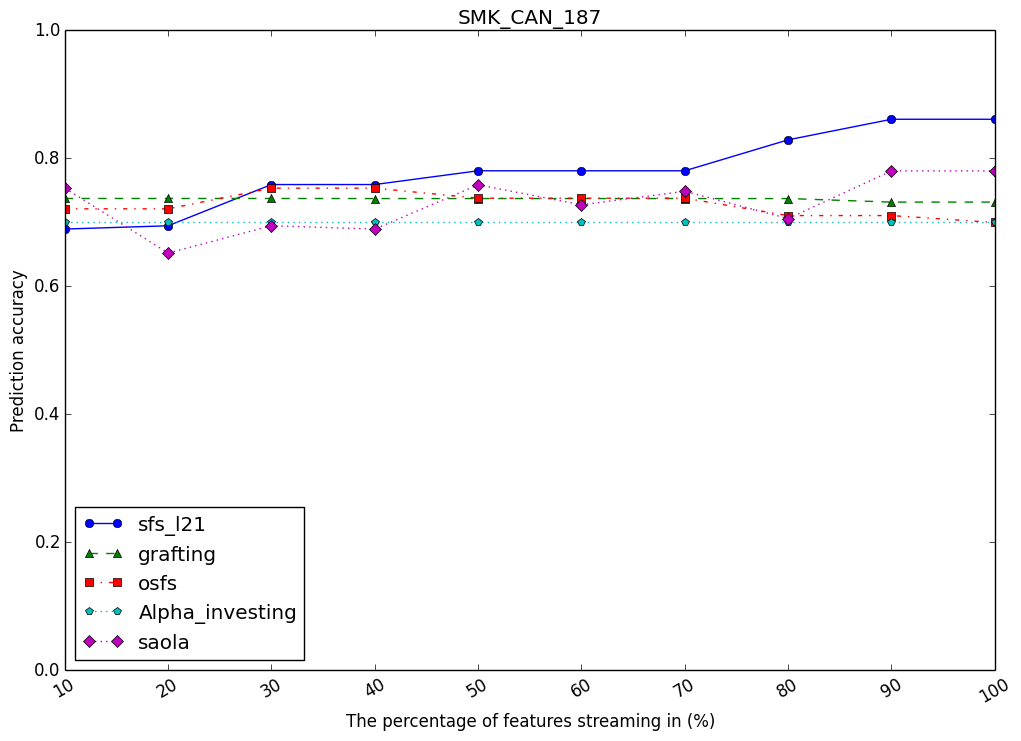
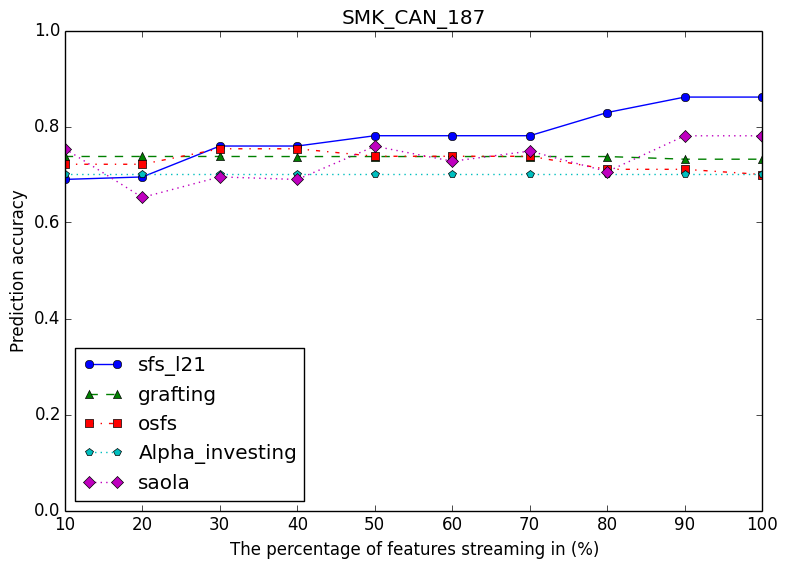
adjust png size from (12, 8) to (9, 6)

Changed region(s): [[0.0, 0.0, 1.0, 0.9859], [0.7328, 0.1793, 0.8244, 0.2091]]

diff --git a/datas/draw_streaming.py b/datas/draw_streaming.py
@@ -30,7 +30,6 @@ def read_output_streaming(fname):
                 percentage = line_list[3][:-1]
             if line_list[0] == 'cross':
                 cls[percentage] = float(line_list[-1])
-    # cls.name = 'prediction accuracy'
     return cls.drop('1000')
 
 
@@ -54,12 +53,12 @@ def read_output_streaming_of_one_dataset(dstype, dataset_name):
 def draw(cls, fname):
     fig, ax = plt.subplots(1, 1)
     style = 'o- ^-- s-. p: D:'.split(' ')
-    cls.plot(ax=ax, style=style, ylim=(0.0, 1.0), rot=30)
+    cls.plot(ax=ax, style=style, ylim=(0.0, 1.0)) #, rot=30)
     ax.set_ylabel('Prediction accuracy')
     ax.set_xlabel('The percentage of features streaming in (%)')
     ax.set_title(fname)
 
-    fig.set_size_inches(12, 8)
+    fig.set_size_inches(9, 6)
     fig.savefig('images_streaming/%s.png' % fname, bbox_inches='tight')
     plt.close()
 
